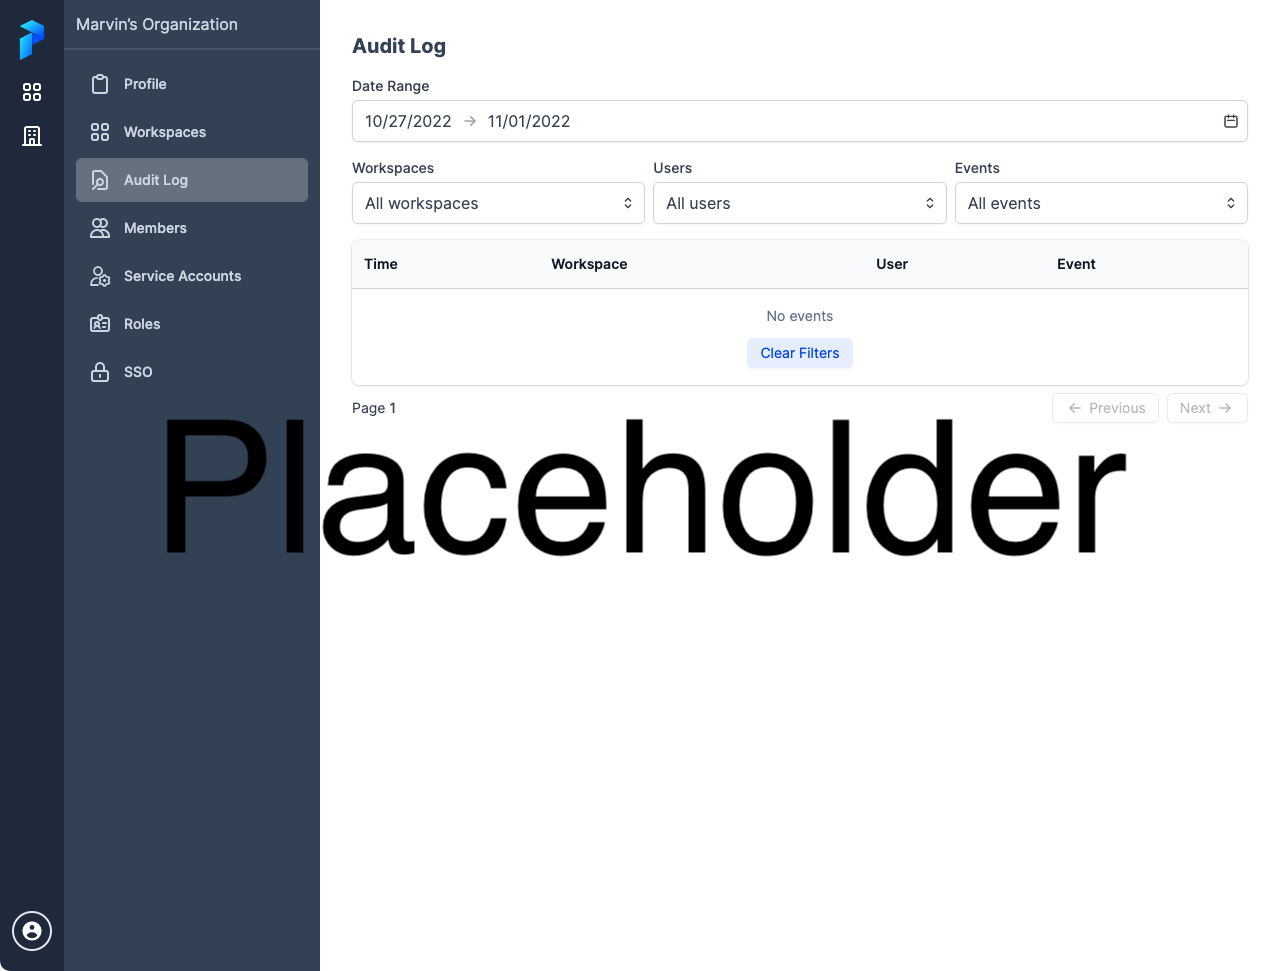
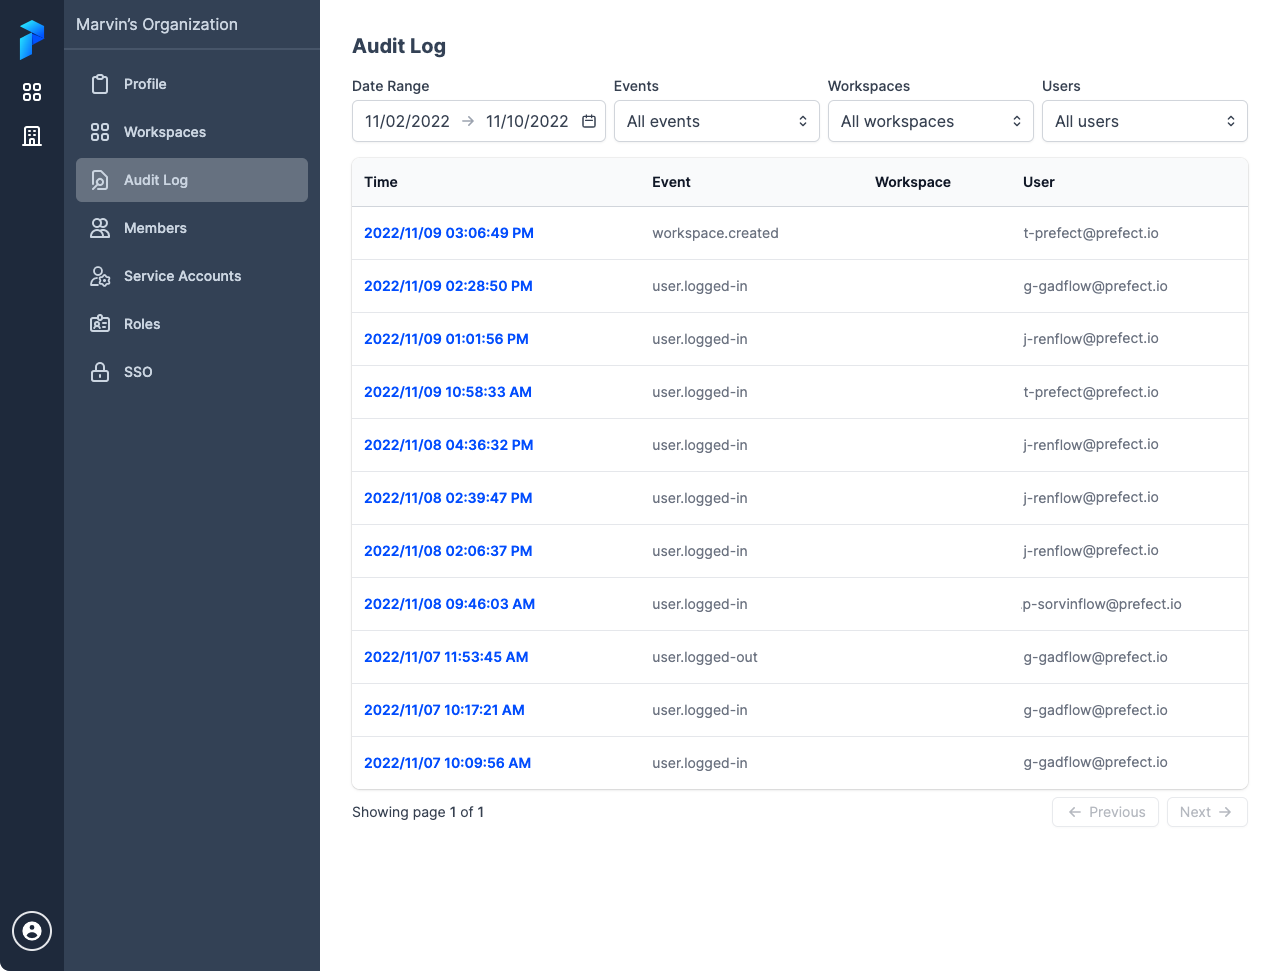
Update screenshot, minor text edits

diff --git a/docs/ui/audit-log.md b/docs/ui/audit-log.md
@@ -38,13 +38,16 @@ Within your organization, select the **Audit Log** page to view audit logs.
 
 Organization admins can view audit logs for: 
 
-- Organization-level events in Prefect Cloud (for example, inviting a user, changing a user’s organization role, or deleting a service account).
-- Workspace-level events in Prefect Cloud (for example, adding a user to a workspace, changing a user’s workspace role, or deleting a workspace).
+- Organization-level events in Prefect Cloud, such as: 
+    - Inviting a user
+    - Changing a user’s organization role
+    - Users logging in or out of Prefect Cloud
+    - Creating or deleting a service account
+- Workspace-level events in Prefect Cloud, such as: 
+    - Adding a user to a workspace
+    - Changing a user’s workspace role
+    - Creating or deleting a workspace
 
-Admins can filter audit logs on multiple dimensions to restrict the results they see by workspace, user, or event type.
+Admins can filter audit logs on multiple dimensions to restrict the results they see by workspace, user, or event type. Available audit log events are displayed in the **Events** drop-down menu.
 
 Audit logs may also be filtered by date range. Audit log retention period varies by [Prefect Cloud plan](https://www.prefect.io/pricing). See your [organization profile page](/ui/organizations/) for the current audit log retention period.
-
-## Audit events
-
-TK
